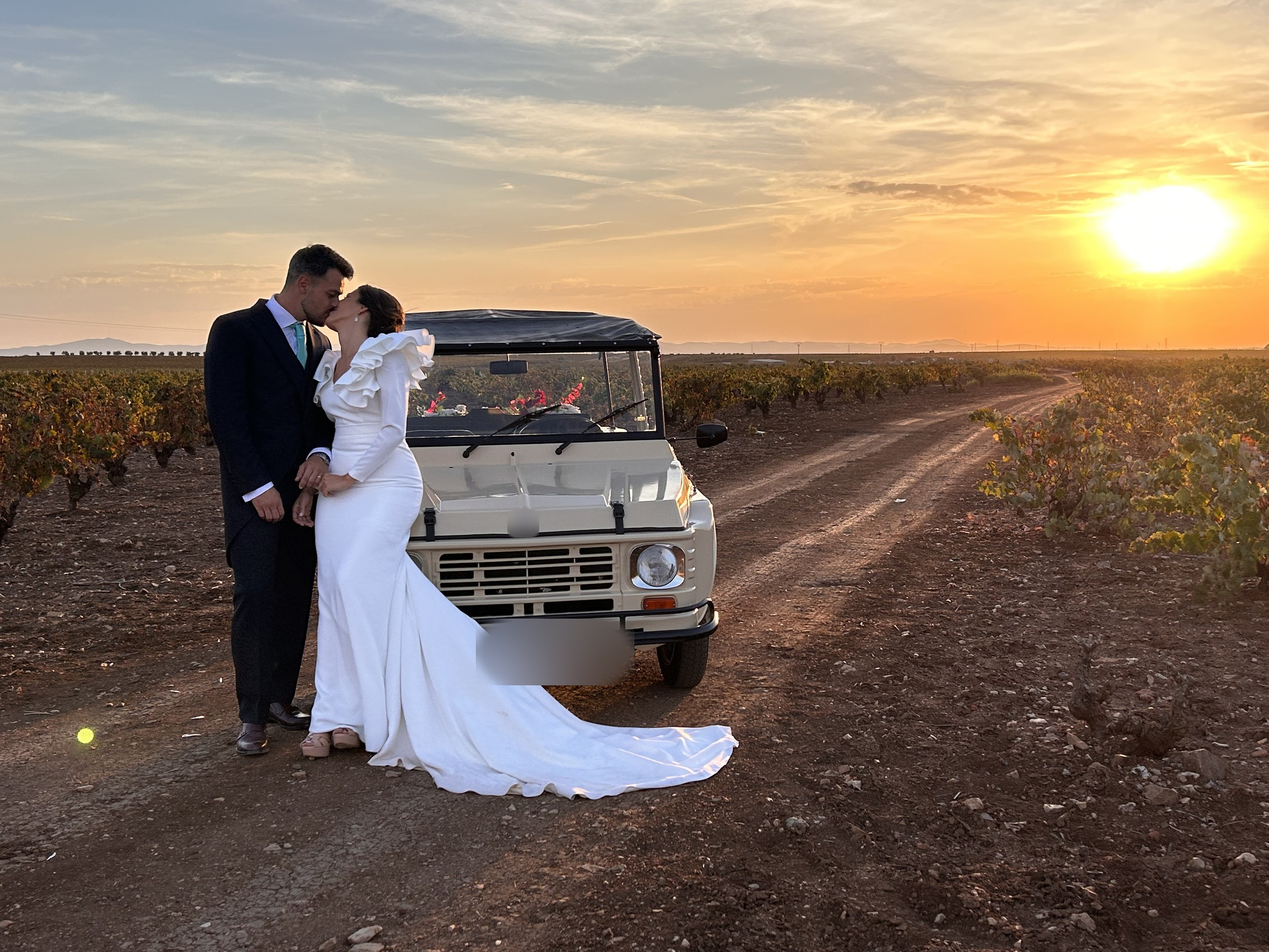
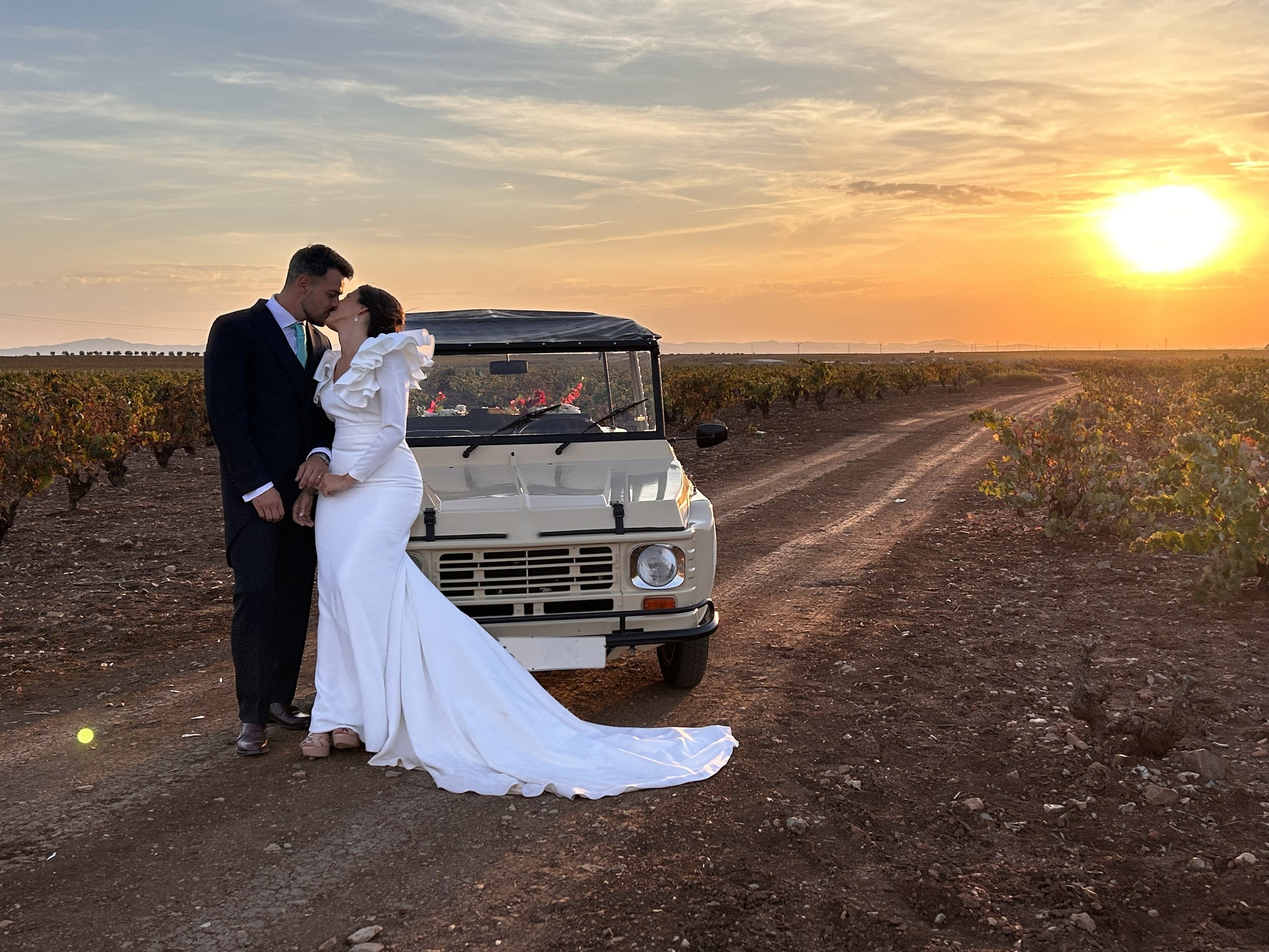
Usa la placa lisa en las fotos del dossier y corrige el techo semiabierto
- Las fotos del dossier con matrícula pasan del difuminado a la placa lisa
  de retocar_foto.py: F0345, F0524, F0750 y F1839 (las mismas que en
  feature/grid-semilla) y F2194, retocada ahora.
- En el techo semiabierto la capota cubre la parte de atrás, no la de
  delante: se corrigen el dibujo, el texto del dossier y el brief.

Changed region(s): [[0.375, 0.6222, 0.5, 0.7467], [0.4062, 0.5289, 0.4375, 0.5911]]

diff --git a/comercial/dossier-novios/index.html b/comercial/dossier-novios/index.html
@@ -258,10 +258,10 @@
       <p>Al aire libre y con las vistas despejadas. La capota puede ir recogida en la parte de atrás. Perfecto para los días de sol.</p>
     </div>
     <div class="tarjeta">
-      <svg viewBox="0 0 250 128"><use href="#carroceria"/><path d="M36 64 V24 H96" fill="none" stroke="var(--tinta)" stroke-width="2" stroke-dasharray="5 6" opacity=".45"/><path d="M96 20 H158 V28 H96 Z" fill="var(--tinta)"/></svg>
+      <svg viewBox="0 0 250 128"><use href="#carroceria"/><path d="M96 24 H156" fill="none" stroke="var(--tinta)" stroke-width="2" stroke-dasharray="5 6" opacity=".45"/><path d="M34 64 V20 H100 V28 H42 V64 Z" fill="var(--tinta)"/></svg>
       <div class="num">02</div>
       <h3>Semiabierto</h3>
-      <p>La capota se recoge con elegancia hasta la mitad del coche, más o menos. Un punto intermedio que combina estilo y protección.</p>
+      <p>La capota cubre la parte de atrás y deja abierta la de delante, más o menos hasta la mitad del coche. Un punto intermedio entre estilo y protección.</p>
     </div>
     <div class="tarjeta">
       <svg viewBox="0 0 250 128"><use href="#carroceria"/><path d="M34 64 V20 H158 L166 64 Z" fill="var(--tinta)" opacity=".9"/><path d="M80 20 H120" stroke="var(--beige)" stroke-width="4"/><path d="M46 30 H96 V54 H46 Z M106 30 H150 L154 54 H106 Z" fill="var(--azahar)" opacity=".35"/></svg>

diff --git a/comercial/dossier-novios/README.md b/comercial/dossier-novios/README.md
@@ -28,7 +28,9 @@ El PDF (unos 16 MB) no se versiona: se sube a Drive · `Mehari We/02_Produccion/
 
 - **Logo**: provisional (wordmark tipográfico con Fraunces y Jost). Cuando la grafista entregue el
   definitivo, se cambia solo dentro de `<template id="logo">` en `index.html`.
-- **Fotos**: todas salen de `redes/instagram/destacadas/historias/limpias/` (matrículas ya
-  difuminadas, sin marca antigua ni menores). Pasa igualmente `revision-marca` sobre el PDF.
+- **Fotos**: todas salen de `redes/instagram/destacadas/historias/limpias/`, sin marca antigua ni
+  menores. Las matrículas visibles van con placa lisa (`herramientas/material/retocar_foto.py`, PR #21):
+  F0345, F0524, F0750 y F1839 vienen de `feature/grid-semilla`, y F2194 se retocó para el dossier con
+  `--placa 967,643,1044,624,1043,654,966,676`. Pasa igualmente `revision-marca` sobre el PDF.
 - **A validar con el cliente**: el paso a paso de la reserva (página 12), la respuesta «solo hay dos
   coches y las fechas de temporada vuelan» (página 13) y el uso de la cita del *Diario de Sevilla*.

diff --git a/docs/cliente/brief.md b/docs/cliente/brief.md
@@ -23,7 +23,7 @@ Origen: `Referencia/Dossier Mehari.pdf`, `Referencia/Dossier Mehari (1).pdf`, `R
 
 ### Configuraciones del techo
 1. **Completamente abierto**, con la capota recogida atrás si se quiere. Ideal para días de sol y para ver el paisaje sin obstáculos.
-2. **Semiabierto**: la capota se recoge hasta la mitad del vehículo, aproximadamente. Combina estilo y protección.
+2. **Semiabierto**: la capota se recoge hasta la mitad del vehículo, aproximadamente: cubre la parte trasera y deja abierta la delantera. Combina estilo y protección.
 3. **Completamente cerrado**, con techo solar que se puede abrir. Da privacidad o protege si el tiempo es incierto, sin perder el estilo vintage.
 
 **Extra**: dos **cestas de mimbre** en la parte trasera para decorar con flores.
